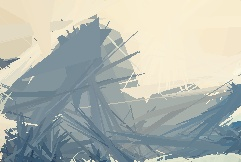
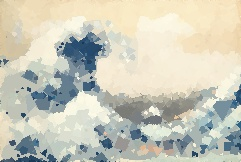
finally fixed bugs

diff --git a/script.py b/script.py
@@ -2,36 +2,54 @@ import numpy as np
 import cv2
 import random
 import time
+import math
+# import multiprocessing
 
+def generate_regular_polygon(num_sides, radius, center, rotation_angle_deg):
+    vertices = []
+    angle_increment = 2 * math.pi / num_sides
+    rotation_matrix = cv2.getRotationMatrix2D(center=center, angle=rotation_angle_deg, scale=1.0)
+    
+    for i in range(num_sides):
+        x = radius * math.cos(i * angle_increment)
+        y = radius * math.sin(i * angle_increment)
+        
+        # Apply rotation and translation
+        transformed_point = np.dot(rotation_matrix, np.array([x, y, 1]))
+        vertices.append(transformed_point[:2] + center)
+    
+    return np.array(vertices, dtype=np.int32)
 
 class Shape:
-    def __init__(self, w, h, points=None):
-        # self.w1 = random.randint(5, w // 2)
-        # self.h1 = random.randint(5, h // 2)
+    def __init__(self, w, h, generate=False):
+        if generate:
+            self.x = random.randint(0, w)
+            self.y = random.randint(0, h)
+            self.sides = random.randint(3, 5)
+            self.radius = random.randint(1, w//2)
+            self.angle = random.randint(0, 360)
+            self.shape = generate_regular_polygon(self.sides, self.radius, (self.x, self.y), self.angle)
 
-        # self.x1 = random.randint(0, w-self.w1)
-        # self.y1 = random.randint(0, h-self.h1)
-        if points:
-            self.points = [[random.randint(0, w), random.randint(0, h)] for _ in range(points)]
+            # self.points = np.random.randint(0, high=(w, h), size=(points, 2))
 
         self.w = w
         self.h = h
 
-        self.mutation_rate = 25
+        self.mutation_rate = 150
 
     def get_fitness(self, current_image, target_image):
 
         # Apply shape to image
         mask = np.zeros(current_image.shape[:2], dtype="uint8")
-        cv2.fillPoly(mask, pts=[np.array(self.points)], color=255)
+        cv2.fillPoly(mask, pts=[self.shape], color=255)
         # cv2.rectangle(mask, (self.x1, self.y1), (self.x1+self.w1, self.y1+self.h1), 255, -1)
 
         color = tuple(map(int, cv2.mean(target_image, mask)[:3]))
         # cv2.rectangle(current_image, (self.x1, self.y1), (self.x1+self.w1, self.y1+self.h1), color, -1)
-        cv2.fillPoly(current_image, pts=[np.array(self.points)], color=color)
+        cv2.fillPoly(current_image, pts=[self.shape], color=color)
 
         # find fitness with color difference
-        color_difference = np.sum(np.abs(target_image - current_image))
+        color_difference = np.sum(np.square(target_image - current_image))
  
         # store the image
         self.image = current_image
@@ -43,16 +61,21 @@ class Shape:
 
         for _ in range(num_children):
             child = Shape(self.w, self.h)
-            child.points = [[self.points[i][0] + random.randint(-10, 10) *  self.mutation_rate, self.points[i][1] + random.randint(-10, 10) * self.mutation_rate] for i in range(len(self.points))]
-            # child.x1 = self.x1 + random.randint(-10, 10) * self.mutation_rate
-            # child.y1 = self.y1 + random.randint(-10, 10) * self.mutation_rate
 
-            # child.w1 = self.w1 + random.randint(-10, 10) * self.mutation_rate
-            # child.h1 = self.h1 + random.randint(-10, 10) * self.mutation_rate
+            child.sides = self.sides
+            child.x = self.x + random.randint(-10, 10) * self.mutation_rate
+            child.y = self.x + random.randint(-10, 10) * self.mutation_rate
+            child.radius = self.x + random.randint(-10, 10) * self.mutation_rate
+            child.angle = self.x + random.randint(-10, 10) * self.mutation_rate
 
+            child.shape = generate_regular_polygon(child.sides, child.radius, (child.x, self.y), child.angle)
+            
+            # mutation = np.random.randint(-10, 11, size=(len(self.points), 2)) * self.mutation_rate
+            # child.points = np.clip(self.points + mutation, 0, [self.w, self.h])
             children.append(child)
 
-        return children
+        return np.array(children)
+
 
 class Evolution:
     def __init__(self, current_image, target_image, population:int):
@@ -61,29 +84,54 @@ class Evolution:
 
         h, w = current_image.shape[:2]
 
-        self.population = [Shape(w, h, random.randint(3, 5)) for _ in range(population)]
+        self.population = np.array([Shape(w, h, True) for _ in range(population)])
         
     def evolve(self, generations):
-        for generation in range(generations):
-            # get fitness for all members of population
-            fitness = [shape.get_fitness(self.current_image.copy(), self.target_image.copy()) for shape in self.population]
+        for _ in range(generations):
+            # Get fitness for all members of the population
+            fitness = np.array([shape.get_fitness(self.current_image.copy(), self.target_image.copy()) for shape in self.population])
+            
 
-            # kill off bad members
-            median = np.median(fitness)
-            culled_population = [self.population[i] for i in range(len(self.population)) if fitness[i] >= median]
+            # Get the indices that would sort the fitness array
+            sorted_indices = np.argsort(fitness)
+
+            # Rearrange the population list based on sorted_indices
+            culled_population = [self.population[sorted_indices[i]] for i in range(len(sorted_indices)) if sorted_indices[i] < len(fitness) // 2]
+
+            # # Calculate the median fitness
+            # median = np.median(fitness)
+            # # print(median)
+            # # print(fitness)
+            # # Create a boolean mask to filter bad members
+            # mask = fitness > median
+
+            # # Apply the mask to the population to get the culled population
+            # culled_population = self.population[mask]
+
+            # print(culled_population.shape)
 
             # Have the surviving members reproduce and mutate
-            self.population = []
+            self.population = np.array(culled_population)
+            # self.population = culled_population
+
             for shape in culled_population:
-                self.population.extend(shape.reproduce(3))
+                self.population = np.concatenate((self.population, shape.reproduce(1)))
+
+            # print(self.population.shape)
 
         fitness = [shape.get_fitness(self.current_image.copy(), self.target_image.copy()) for shape in self.population]
-        best_fit = fitness.index(max(fitness))
-        return self.population[best_fit].image
+        best_fitness = min(fitness)
+        best_fit = fitness.index(best_fitness)
+        return [best_fitness, self.population[best_fit].image]
+
+# def parallel_evolve(args):
+#     return args[0].evolve(args[1])
 
 if __name__ == "__main__":
     scale = 16
-    shapes = 20000
+    shapes = 10000
+    shape_counter = 0
+
     startTime = time.time()
 
     image = cv2.imread('image.jpg')
@@ -93,15 +141,31 @@ if __name__ == "__main__":
     average_color = tuple(map(int, cv2.mean(image)))[:3]
     base_image = np.full(shape=image.shape, fill_value=average_color, dtype=np.uint8)
 
+    # pool = multiprocessing.Pool(processes=multiprocessing.cpu_count())
+
+    population_size = 50
+    generations_per_step = 5
+
+    last_fitness = float('inf')
+
     for i in range(1, shapes+1):
-        object = Evolution(base_image, image, 20)
-        base_image = object.evolve(3)
-        print(i)
-        if i % 1000 == 0:
-            print(i)
+        object = Evolution(base_image, image, population_size)
+        current_fitness, current_image = object.evolve(generations_per_step)
+        if current_fitness < last_fitness:
+            base_image = current_image
+        # base_image = pool.map(parallel_evolve, [(object, generations_per_step)])[0]
+
+            shape_counter += 1
+            # print(i)
+            print(shape_counter)
+            
+
+        if i % 100 == 0:
             if i > 0:
-                delay = time.time() - startTime
-                print(f"{delay * ((shapes - i)/ 1000)} more seconds")
+                elapsed_time = time.time() - startTime
+                remaining_time = (elapsed_time / i) * (shapes - i)
+                print(f"Time Remaining: {remaining_time}")
+        last_fitness = current_fitness
 
     cv2.imwrite('finished.jpg', base_image)
     cv2.imshow('Final result', base_image)
